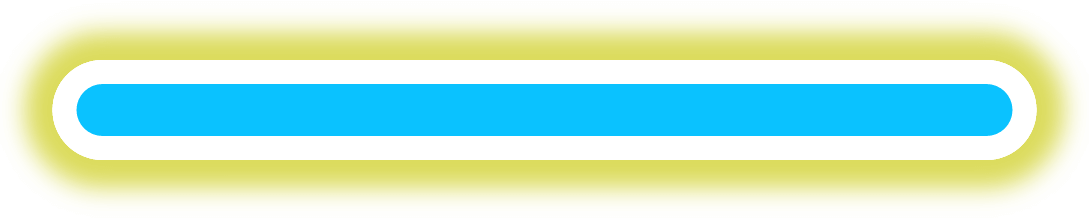
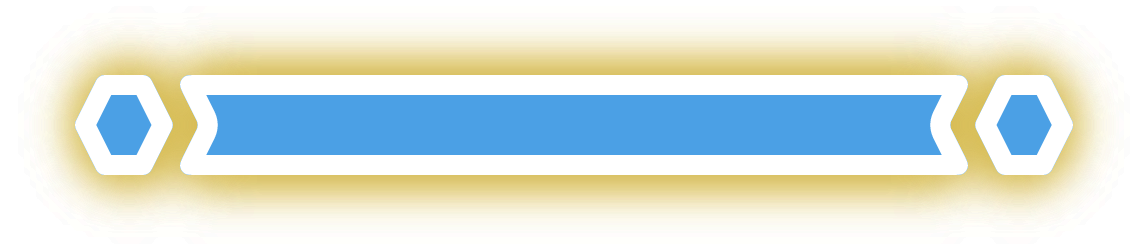
feat: new skin
tweak: menu size

diff --git a/phira/src/scene/song.rs b/phira/src/scene/song.rs
@@ -1836,7 +1836,7 @@ impl Scene for SongScene {
                 self.menu.set_bottom(true);
                 self.menu.set_selected(usize::MAX);
                 let d = 0.28;
-                self.menu.show(ui, t, Rect::new(r.x - d, r.bottom() + 0.02, r.w + d, 0.4));
+                self.menu.show(ui, t, Rect::new(r.x - d, r.bottom() + 0.02, r.w + d, 0.5));
             }
             ui.dx(-r.w - 0.03);
             ui.fill_rect(r, (*self.icon_info, r, ScaleType::Fit, c));

diff --git a/prpr/src/scene/game.rs b/prpr/src/scene/game.rs
@@ -152,6 +152,7 @@ macro_rules! reset {
         $res.judge_line_color = Color::from_hex($res.res_pack.info.color_perfect);
         $self.music.pause()?;
         $self.music.seek_to(0.)?;
+        $tm.speed = $res.config.speed as _;
         $tm.reset();
         $self.last_update_time = $tm.now();
         $self.state = State::Starting;
